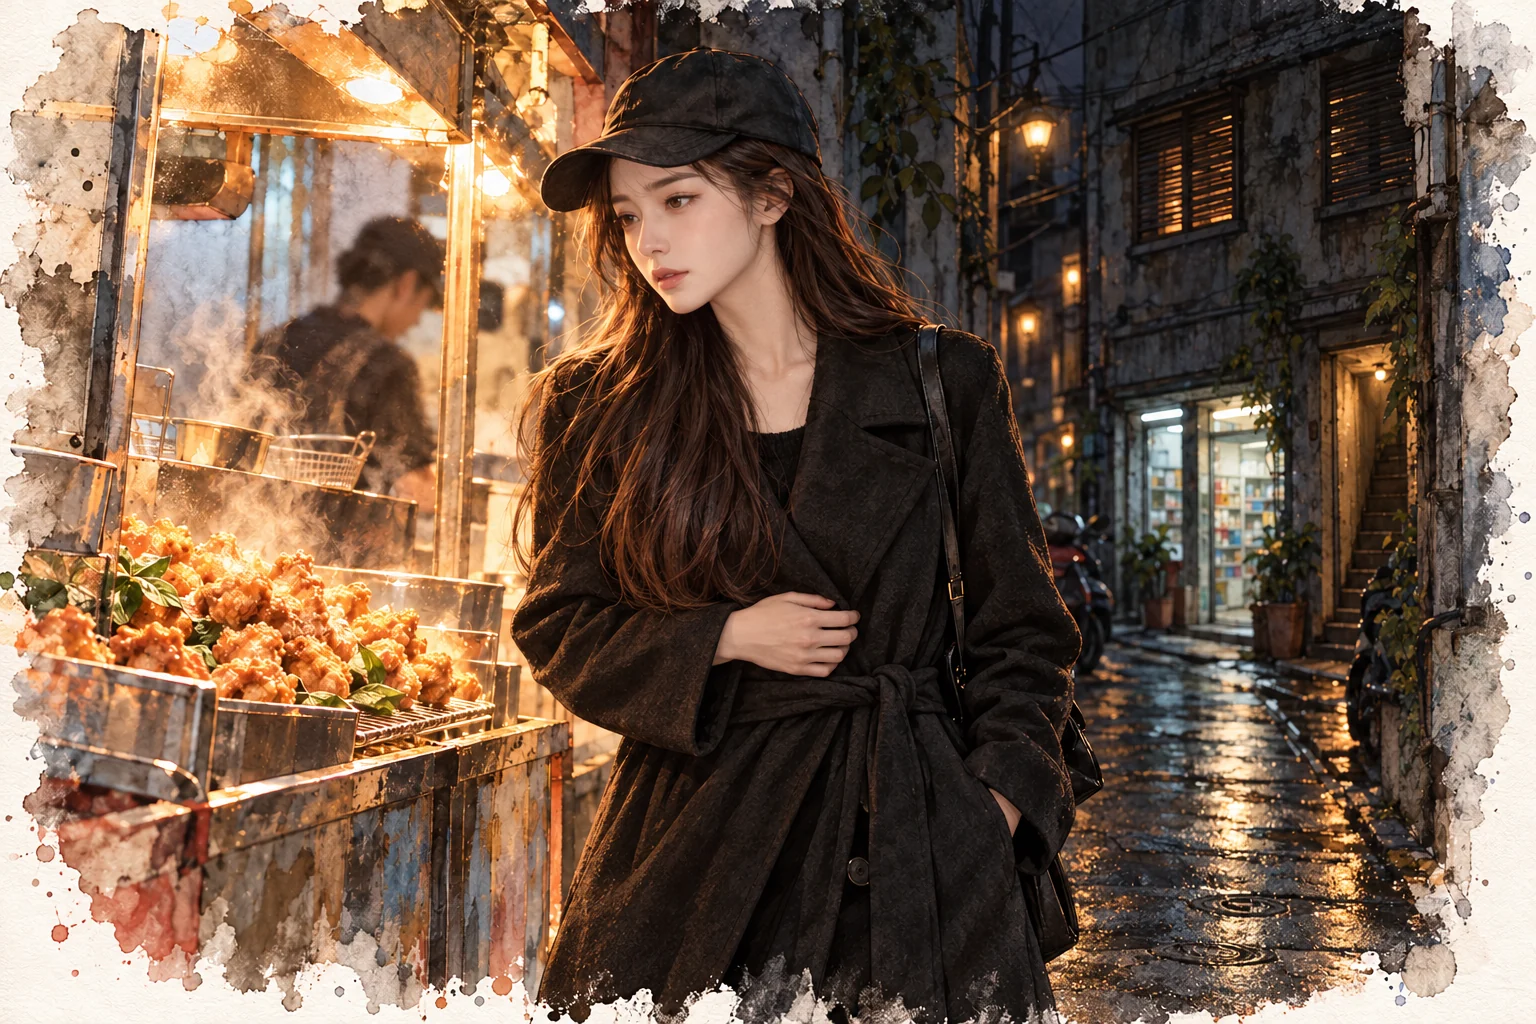
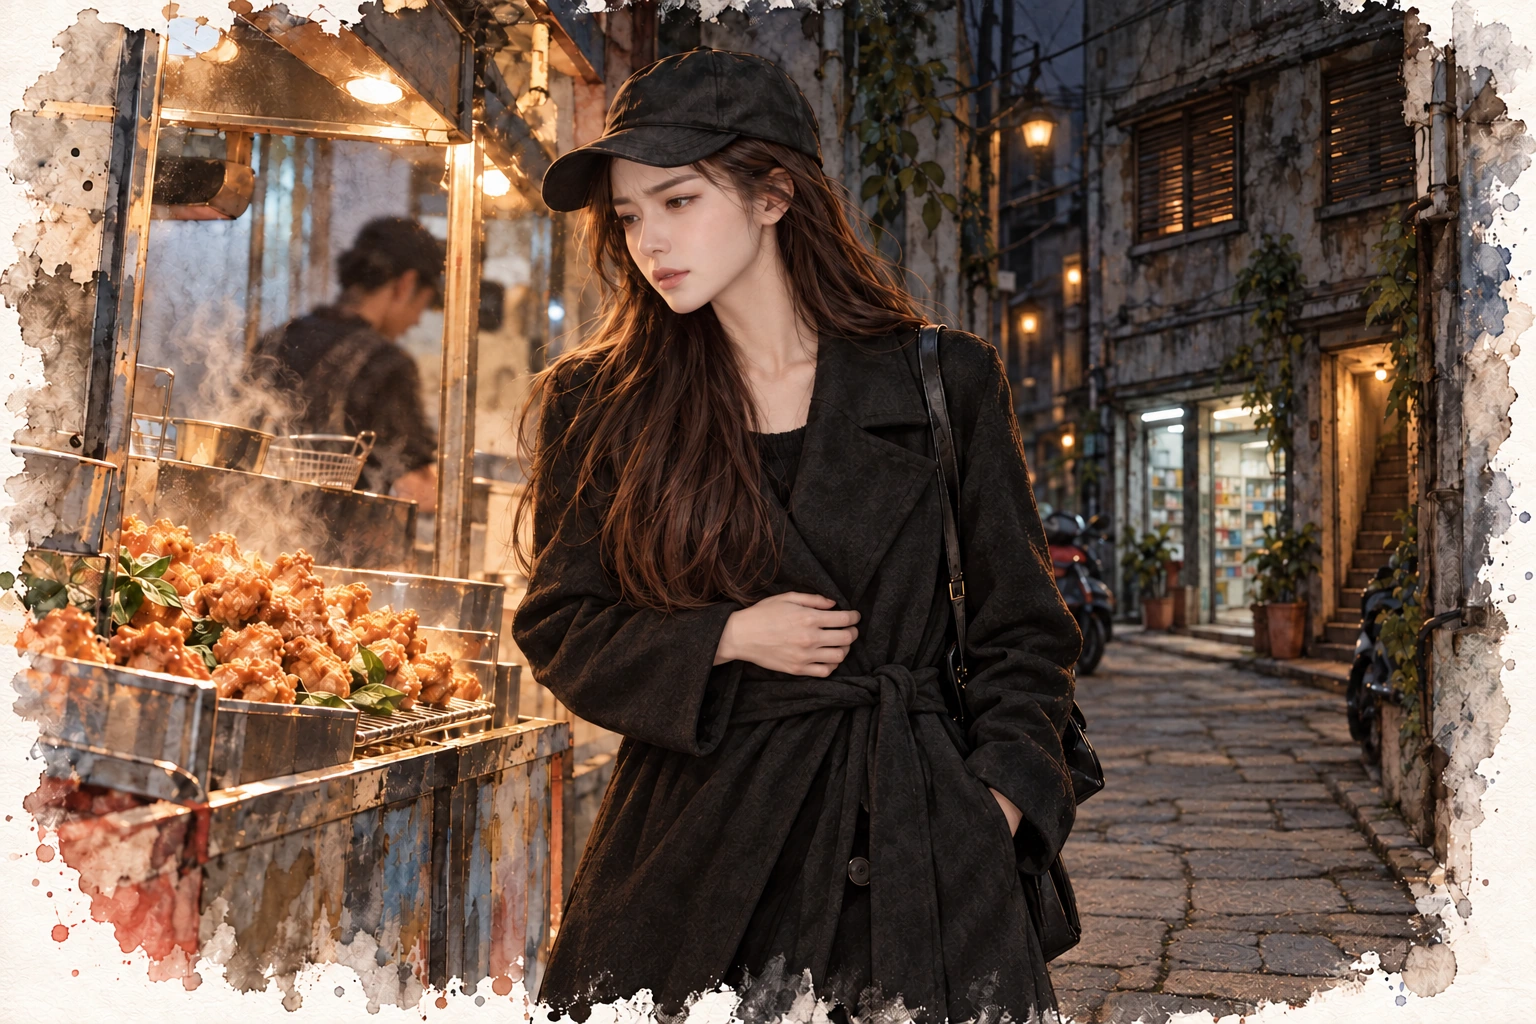
Replace chapter 1 Lin Tang illustration with approved version

diff --git a/novels/no-signboard-bar/chapter-01.html b/novels/no-signboard-bar/chapter-01.html
@@ -1,5 +1,5 @@
 <!doctype html><html lang="zh-Hant"><head><meta charset="utf-8"><meta name="viewport" content="width=device-width,initial-scale=1"><title>第一章 今天不賣酒｜沒有招牌的酒吧｜Beauty</title><meta name="description" content="沒有招牌的酒吧，第一部第一章〈今天不賣酒〉。林棠、陸曜、溫寧、江澈，四人第一人稱輪流敘事。"><link rel="stylesheet" href="../../assets/forest/site.css"><link rel="stylesheet" href="../../assets/forest/reader.css"><link rel="stylesheet" href="../../assets/forest/novel.css?v=reader-font1"></head><body><header class="site-header"><a class="brand" href="../../">Beauty <span class="small-paw">✧</span></a><nav aria-label="主要導覽"><a href="../../#books">小說</a><a href="../../#xiaoruan">小軟</a><a href="../../#about">關於我</a></nav></header><div class="forest-banner"><img src="../../assets/forest/xiaoruan-hero-v2.webp" alt="小軟的童話森林" width="1672" height="941"></div><main class="reader-shell" id="main"><nav class="breadcrumb" aria-label="所在位置"><a href="../../#books">故事森林</a><span>／</span><a href="./">沒有招牌的酒吧</a><span>／ 第一部</span></nav><article class="reader-paper"><header class="reader-heading"><p class="eyebrow">沒有招牌的酒吧 · 第一部</p><h1>第一章　今天不賣酒</h1><p class="reader-meta">Beauty 著 · 四人第一人稱輪流敘事</p><nav class="pov-nav" aria-label="本章視角"><a href="#pov-1">林棠</a><a href="#pov-2">陸曜</a><a href="#pov-3">溫寧</a><a href="#pov-4">江澈</a></nav><div class="reader-settings" role="group" aria-label="閱讀字級"><span>字級</span><button type="button" data-font-step="-1" aria-label="縮小文字">A−</button><button type="button" data-font-step="1" aria-label="放大文字">A＋</button><button type="button" data-font-reset>還原</button><output aria-live="polite" class="reader-font-status">預設</output></div></header><div class="reader-body"><hr>
-<div class="pov-opening"><h2 class="pov-title" id="pov-1"><span>敘事視角</span>林棠</h2><a class="pov-art" href="../../assets/novels/no-signboard-bar/chapter-01-lin-tang.webp" target="_blank" rel="noopener" aria-label="開啟林棠插圖大圖"><img src="../../assets/novels/no-signboard-bar/chapter-01-lin-tang.webp" alt="林棠在鹹酥雞攤旁停下腳步，手按上腹；暗巷深處是藥局與二樓酒吧。" width="1536" height="1024" loading="lazy" decoding="async"></a><div class="pov-intro"><p>「卡。」</p>
+<div class="pov-opening"><h2 class="pov-title" id="pov-1"><span>敘事視角</span>林棠</h2><a class="pov-art" href="../../assets/novels/no-signboard-bar/chapter-01-lin-tang.webp?v=2" target="_blank" rel="noopener" aria-label="開啟林棠插圖大圖"><img src="../../assets/novels/no-signboard-bar/chapter-01-lin-tang.webp?v=2" alt="林棠在鹹酥雞攤旁停下腳步，手按上腹；暗巷深處是藥局與二樓酒吧。" width="1536" height="1024" loading="lazy" decoding="async"></a><div class="pov-intro"><p>「卡。」</p>
 <p>導演喊出這個字的時候，我還在笑。</p>
 <p>笑是我最擅長的事。嘴角要到哪個角度、眼睛要彎多少、下巴要收幾分，才會在鏡頭裡顯得不費力，我比誰都清楚。今天這場戲拍了十七次，十七次我都笑得一模一樣。</p></div></div>
 <p>副導喊收工，助理小跑過來遞便當。「棠姐，妳從早上到現在都沒吃。」</p>
